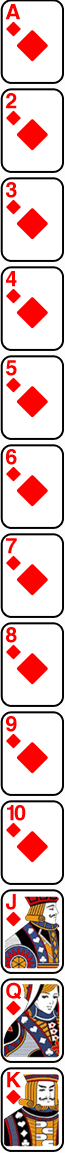
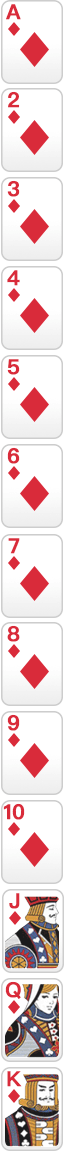
update style

diff --git a/src/style/card.scss b/src/style/card.scss
@@ -1,4 +1,13 @@
 
+.card {
+  display: inline-block;
+  width: 36px;
+  height: 48px;
+  margin-left: -9px;
+  margin-right: -9px;
+  background-size: cover;
+}
+
 .card-type1 {
   background-image: url(../assets/niu/cards1.png)
 }
@@ -15,12 +24,6 @@
   background-image: url(../assets/niu/cards4.png)
 }
 
-.pokers-info {
-  height: 25px;
-  margin-left: -9px;
-  margin-right: -9px;
-}
-
 .pokers {
   display: inline-flex;
   justify-content: space-around;
@@ -32,31 +35,24 @@
   position: relative;
 }
 
-.card {
+.win-badge {
+  position: absolute;
+  right: -15px;
+  top: 20px;
   display: inline-block;
-  width: 32px;
-  height: 43px;
-  margin-left: -9px;
-  margin-right: -9px;
-  background-size: 100%;
-}
-
-.pokers-name {
-  display: inline-block;
-  background-image: url(../assets/niu/niuniu_name.png);
-  background-repeat: no-repeat;
-  width: 40px;
-  height: 20px;
-  background-size: 40px;
+  background-image: url(../assets/niu/niuniu_win.png);
+  background-size: cover;
+  width: 30px;
+  height: 30px;
+  z-index: 2;
 }
 
 .pokers-rank {
   display: inline-block;
-  background-image: url(../assets/niu/niuniu_sprite.png);
-  width: 50px;
+  background-image: url(../assets/niu/niuniu_rank.png);
+  background-size: cover;
+  width: 45px;
   height: 25px;
-  background-position: 4px 2px;
-  background-size: 400px;
 }
 
 @for $num from 1 through 13 {
@@ -65,90 +61,74 @@
   }
 }
 
-.waitopen {
-  display: inline-block;
-  width: 100%;
-  height: 80px;
-  .img {
-    height: 100%;
-  }
-}
-
-.win-badge {
-  position: absolute;
-  right: -20px;
-  top: -10px;
-  display: inline-block;
-  background-image: url(../assets/niu/niuniu_sprite.png);
-  background-size: 300px;
-  background-position: -55px -108px;
-  width: 35px;
-  height: 35px;
-  z-index: 2;
-}
-
-
 .rank-1 {
-  background-position: 4px -32px
+  background-position: 0px -25px
 }
 
 .rank-2 {
-  background-position: 4px -66px
+  background-position: 0px -50px
 }
 
 .rank-3 {
-  background-position: 4px -99px
+  background-position: 0px -75px
 }
 
 .rank-4 {
-  background-position: 4px -133px
+  background-position: 0px -100px
 }
 
 .rank-5 {
-  background-position: 4px -167px
+  background-position: 0px -126px
 }
 
 .rank-6 {
-  background-position: 4px -200px
+  background-position: 0px -152px
 }
 
 .rank-7 {
-  background-position: 4px -233px
+  background-position: 0px -180px
 }
 
 .rank-8 {
-  background-position: 4px -267px
+  background-position: 0px -205px
 }
 
 .rank-9 {
-  background-position: 4px -301px
+  background-position: 0px -230px
 }
 
 .rank-10 {
-  background-position: 4px -334px
+  background-position: 0px -256px
 }
 
-
-.banker {
-  background-position: 0 0
+.pokers-name {
+  display: inline-block;
+  width: auto;
+  margin-top: 10px;
+  margin-bottom: 10px;
 }
 
-.player-n1 {
-  background-position: 0 -33px
+.banker:after {
+  content: '庄';
+  padding: 2px 10px;
+  border-radius: 4px;
+  font-weight: 700;
+  background-color: red;
+  color: yellow;
 }
 
-.player-n2 {
-  background-position: 0 -66px
+%player-style {
+  padding: 2px 10px;
+  border-radius: 4px;
+  font-weight: 700;
+  background-color: green;
+  color: #fff;
 }
 
-.player-n3 {
-  background-position: 0 -100px
-}
-
-.player-n4 {
-  background-position: 0 -133px
-}
-
-.player-n5 {
-  background-position: 0 -166px
+$player_number: '闲一', '闲二', '闲三', '闲四', '闲五';
+@for $num from 1 through 5 {
+  .player-n#{$num}:after {
+    content: nth($player_number, $num);
+    @extend %player-style;
+  }
 }

diff --git a/src/components/CardResult.vue b/src/components/CardResult.vue
@@ -1,22 +1,17 @@
 <template>
   <ul class="pokers">
-    <li v-if="!currentGameResult.issue_number" class="waitopen text-center">
-      <img class="img" src="../assets/niu/waitopen.png" alt="">
-    </li>
-    <li v-else class="poker"
+    <li class="poker text-center"
       v-for="(value, key, index) in currentGameResult.extra_info"
       :key="index">
-      <span class="win-badge" v-if="value.status === 'win'"></span>
+      <div :class="['pokers-name', key === 'n0' ? 'banker' : `player-${key}`]" ></div>
       <div class="pokers-wrap">
+        <span class="win-badge" v-if="value.status === 'win'"></span>
         <span :class="['card', 'card-animation', `card-${displayCardNumber(card.number)}`, `card-type${card.cardType}`]"
           v-for="(card, index) in value.numbers"
           :key="index">
         </span>
       </div>
-      <div class="pokers-info">
-        <div :class="['pokers-name', key === 'n0' ? 'banker' : `player-${key}`]" ></div>
-        <div :class="['pokers-rank', `rank-${value.niu_number}`]"></div>
-      </div>
+      <div :class="['pokers-rank', `rank-${value.niu_number}`]"></div>
     </li>
   </ul>
 </template>

diff --git a/src/components/ChatMessages.vue b/src/components/ChatMessages.vue
@@ -38,7 +38,7 @@
 
             <div :class="['envelope-message','clickable',
               {'null': (msg.envelope_status.total === msg.envelope_status.users.length) &&
-                !msg.envelope_status.users.map(item => item.receiver_id).includes(user.id)}]"
+                !msg.envelope_status.users.map(item => item.username).includes(user.username)}]"
               v-else-if="msg.envelope_status && isAlive(msg.envelope_status.expired_time)"
               @click="takeEnvelope(msg)">
               <img class="img m-r" src="../assets/envelope_message.png" alt="envelope" />
@@ -453,12 +453,12 @@ export default {
   padding: 10px;
   border-radius: 5px;
   justify-content: stretch;
-  background-color: #eea549;
+  background-color: #fa9d3b;
   position: relative;
 
   &.expired {
     opacity: .6;
-    background: #999999;
+    background: #D69F14;
   }
 
   &.null {

diff --git a/src/screens/games/GameCategory.vue b/src/screens/games/GameCategory.vue
@@ -12,11 +12,13 @@
           <el-button size="small" @click="reset">重置</el-button>
         </el-col>
       </el-row>
-      <section class="cardresults-wrapper m-b" v-if="currentGameResult && (game.code === 'msnn' || game.code === 'pk10nn')">
+      <section class="cardresults-wrapper m-b"
+        v-loading="!currentGameResult.issue_number"
+        element-loading-text="等待开奖中"
+        v-if="currentGameResult && (game.code === 'msnn' || game.code === 'pk10nn')">
         <CardResult :currentGameResult="currentGameResult"/>
       </section>
-      <div
-        v-for="(playSection, index) in playSections"
+      <div v-for="(playSection, index) in playSections"
         class="clearfix"
         :key="playSection.id + 'playSection' + index"
         v-if="playSections.length">
